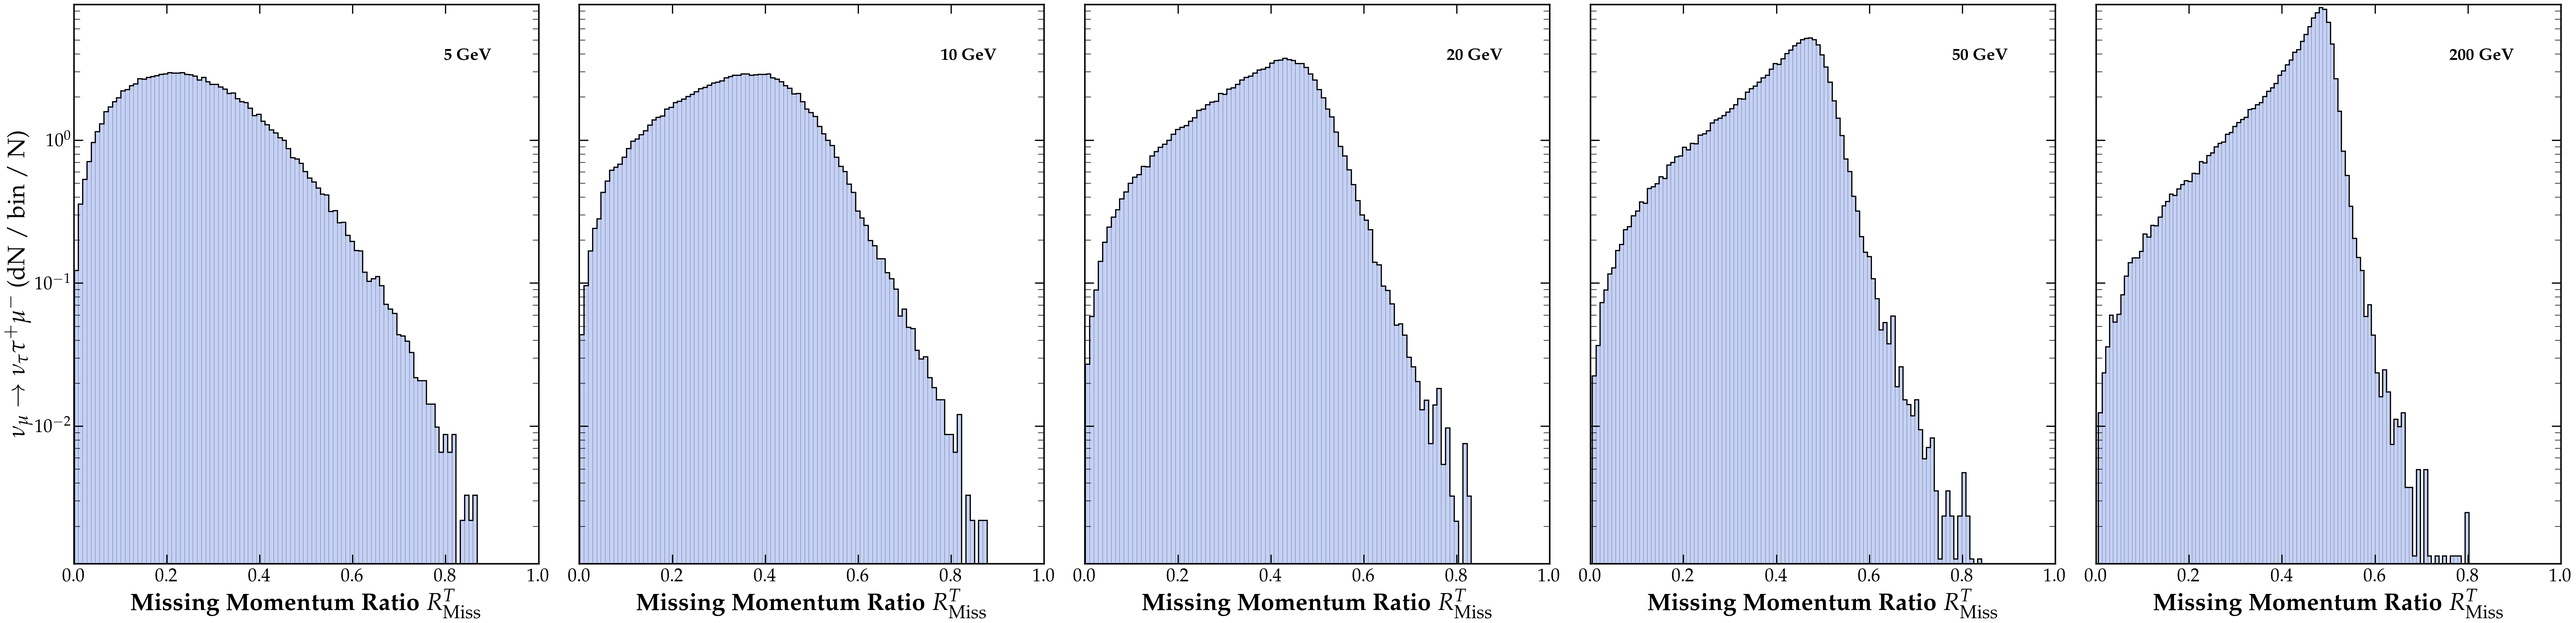
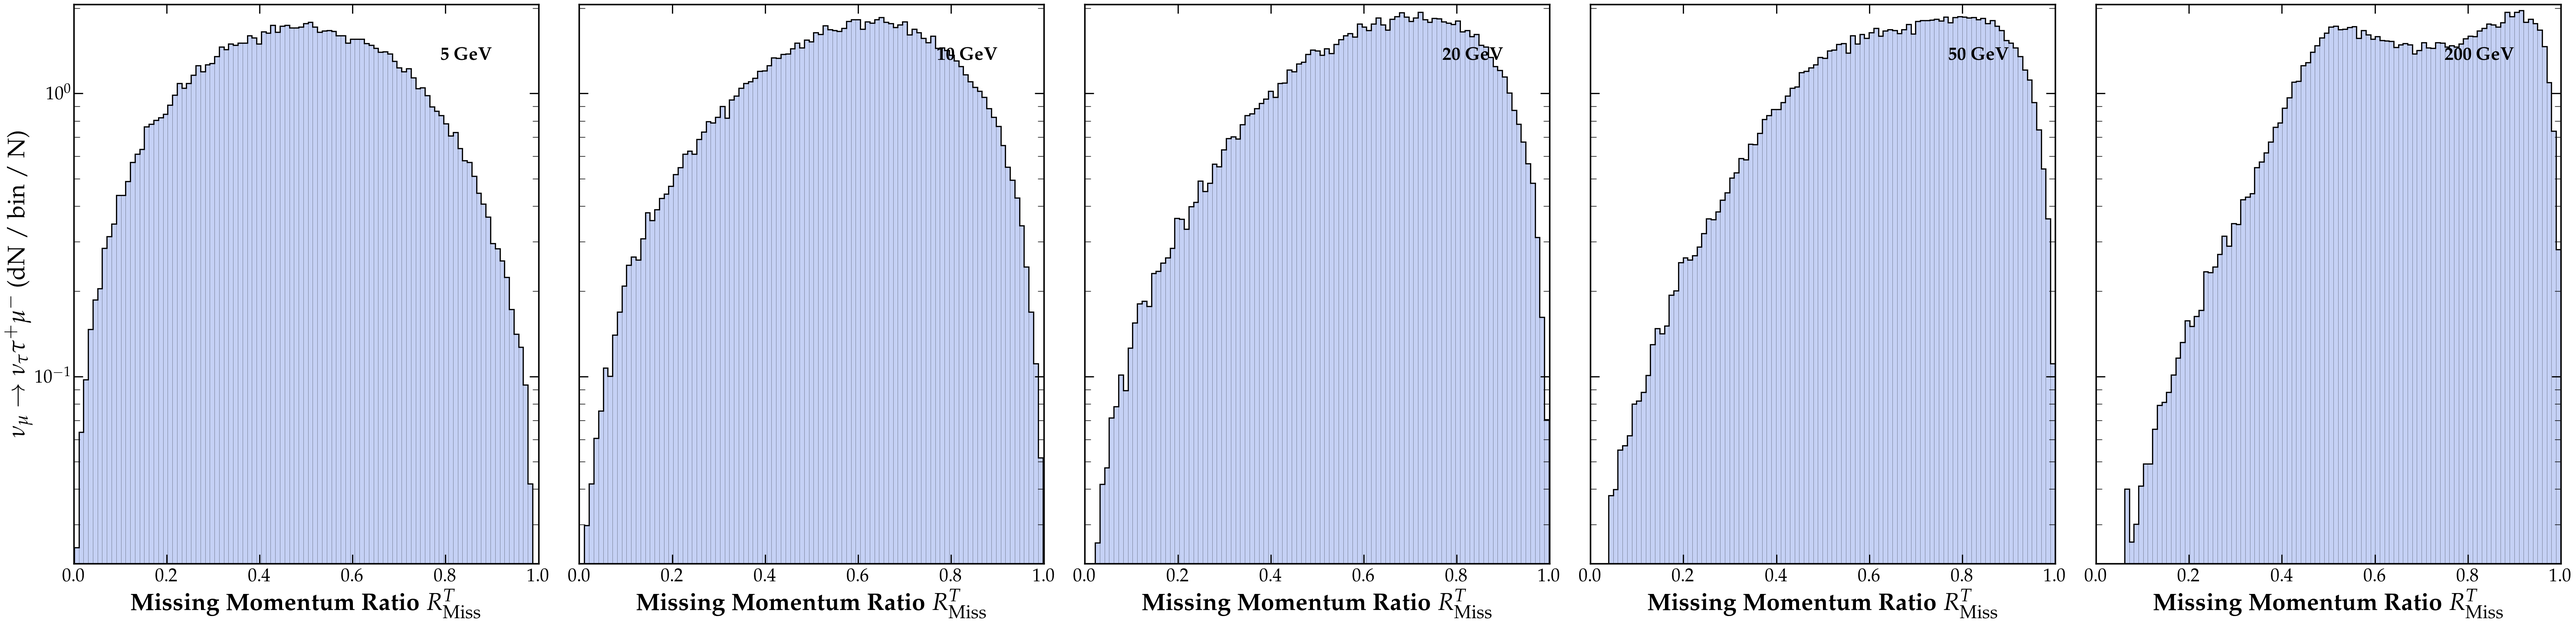
Modify RMiss distribution to only include ptMiss and ptMuon

diff --git a/analysis/plot_event_distributions_proton.py b/analysis/plot_event_distributions_proton.py
@@ -22,43 +22,48 @@ ptMiss_1tau_nucleon_p_5GeV = []
 ptMuon_1tau_nucleon_p_5GeV = []
 ptTau_1tau_nucleon_p_5GeV = []
 RMiss_1tau_nucleon_p_5GeV = []
+Fermi4Q2_1tau_nucleon_p_5GeV = []
 
 ### 1tau ; proton ; 10 GeV ###
 ptMiss_1tau_nucleon_p_10GeV = []
 ptMuon_1tau_nucleon_p_10GeV = []
 ptTau_1tau_nucleon_p_10GeV = []
 RMiss_1tau_nucleon_p_10GeV = []
+Fermi4Q2_1tau_nucleon_p_10GeV = []
 
 ### 1tau ; proton ; 20 GeV ###
 ptMiss_1tau_nucleon_p_20GeV = []
 ptMuon_1tau_nucleon_p_20GeV = []
 ptTau_1tau_nucleon_p_20GeV = []
 RMiss_1tau_nucleon_p_20GeV = []
+Fermi4Q2_1tau_nucleon_p_20GeV = []
 
 ### 1tau ; proton ; 50 GeV ###
 ptMiss_1tau_nucleon_p_50GeV = []
 ptMuon_1tau_nucleon_p_50GeV = []
 ptTau_1tau_nucleon_p_50GeV = []
 RMiss_1tau_nucleon_p_50GeV = []
+Fermi4Q2_1tau_nucleon_p_50GeV = []
 
 ### 1tau ; proton ; 200 GeV ###
 ptMiss_1tau_nucleon_p_200GeV = []
 ptMuon_1tau_nucleon_p_200GeV = []
 ptTau_1tau_nucleon_p_200GeV = []
 RMiss_1tau_nucleon_p_200GeV = []
-
+Fermi4Q2_1tau_nucleon_p_200GeV = []
 
 ############################
 #### Read Distributions ####
 ############################
 
-def read_after_skip(file_path, skip_lines=37):
+def read_after_skip(file_path, E_v, skip_lines=37):
     with open(file_path, 'r') as txtfile:
         for _ in range(skip_lines):
             next(txtfile)
         pt_miss_array = []
         pt_muon_array = []
         pt_tau_array = []
+        q2_array = []
         for line in txtfile:
             if line.startswith('16'):  # Read and store vtau transverse momentum
                 data = line.split()
@@ -72,8 +77,13 @@ def read_after_skip(file_path, skip_lines=37):
                 assert int(data[0]) == 13
                 px = float(data[2])
                 py = float(data[3])
+                pz = float(data[4])
+                E  = float(data[5])
+                M  = float(data[6])
                 pt_muon = np.sqrt(px**2 + py**2)
+                q2 = M**2 - E_v*(E - pz)  # Incoming v has E_v = pz_v and px_v = py_v = 0.
                 pt_muon_array.append(pt_muon)
+                q2_array.append(-q2)
             if line.startswith('-15'):  # Read and store tau transverse momentum
                 data = line.split()
                 assert int(data[0]) == -15
@@ -81,14 +91,14 @@ def read_after_skip(file_path, skip_lines=37):
                 py = float(data[3])
                 pt_tau = np.sqrt(px**2 + py**2)
                 pt_tau_array.append(pt_tau)
-        r_miss_array = [pt_miss / (pt_miss + pt_muon + pt_tau) for pt_miss, pt_muon, pt_tau in zip(pt_miss_array, pt_muon_array, pt_tau_array)]  # Calculate missing momentum ratio
-        return pt_miss_array, pt_muon_array, pt_tau_array, r_miss_array
+        r_miss_array = [pt_miss / (pt_miss + pt_muon) for pt_miss, pt_muon in zip(pt_miss_array, pt_muon_array)]  # Calculate missing momentum ratio
+        return pt_miss_array, pt_muon_array, pt_tau_array, r_miss_array, q2_array
 
-ptMiss_1tau_nucleon_p_5GeV, ptMuon_1tau_nucleon_p_5GeV, ptTau_1tau_nucleon_p_5GeV, RMiss_1tau_nucleon_p_5GeV = read_after_skip(EVENTS_DIR_1TAU+'/1tau_1e5Events_p_5GeV.txt')
-ptMiss_1tau_nucleon_p_10GeV, ptMuon_1tau_nucleon_p_10GeV, ptTau_1tau_nucleon_p_10GeV, RMiss_1tau_nucleon_p_10GeV = read_after_skip(EVENTS_DIR_1TAU+'/1tau_1e5Events_p_10GeV.txt')
-ptMiss_1tau_nucleon_p_20GeV, ptMuon_1tau_nucleon_p_20GeV, ptTau_1tau_nucleon_p_20GeV, RMiss_1tau_nucleon_p_20GeV = read_after_skip(EVENTS_DIR_1TAU+'/1tau_1e5Events_p_20GeV.txt')
-ptMiss_1tau_nucleon_p_50GeV, ptMuon_1tau_nucleon_p_50GeV, ptTau_1tau_nucleon_p_50GeV, RMiss_1tau_nucleon_p_50GeV = read_after_skip(EVENTS_DIR_1TAU+'/1tau_1e5Events_p_50GeV.txt')
-ptMiss_1tau_nucleon_p_200GeV, ptMuon_1tau_nucleon_p_200GeV, ptTau_1tau_nucleon_p_200GeV, RMiss_1tau_nucleon_p_200GeV = read_after_skip(EVENTS_DIR_1TAU+'/1tau_1e5Events_p_200GeV.txt')
+ptMiss_1tau_nucleon_p_5GeV, ptMuon_1tau_nucleon_p_5GeV, ptTau_1tau_nucleon_p_5GeV, RMiss_1tau_nucleon_p_5GeV, Fermi4Q2_1tau_nucleon_p_5GeV = read_after_skip(EVENTS_DIR_1TAU+'/1tau_1e5Events_p_5GeV.txt', 5)
+ptMiss_1tau_nucleon_p_10GeV, ptMuon_1tau_nucleon_p_10GeV, ptTau_1tau_nucleon_p_10GeV, RMiss_1tau_nucleon_p_10GeV, Fermi4Q2_1tau_nucleon_p_10GeV = read_after_skip(EVENTS_DIR_1TAU+'/1tau_1e5Events_p_10GeV.txt', 10)
+ptMiss_1tau_nucleon_p_20GeV, ptMuon_1tau_nucleon_p_20GeV, ptTau_1tau_nucleon_p_20GeV, RMiss_1tau_nucleon_p_20GeV, Fermi4Q2_1tau_nucleon_p_20GeV = read_after_skip(EVENTS_DIR_1TAU+'/1tau_1e5Events_p_20GeV.txt', 20)
+ptMiss_1tau_nucleon_p_50GeV, ptMuon_1tau_nucleon_p_50GeV, ptTau_1tau_nucleon_p_50GeV, RMiss_1tau_nucleon_p_50GeV, Fermi4Q2_1tau_nucleon_p_50GeV = read_after_skip(EVENTS_DIR_1TAU+'/1tau_1e5Events_p_50GeV.txt', 50)
+ptMiss_1tau_nucleon_p_200GeV, ptMuon_1tau_nucleon_p_200GeV, ptTau_1tau_nucleon_p_200GeV, RMiss_1tau_nucleon_p_200GeV, Fermi4Q2_1tau_nucleon_p_200GeV = read_after_skip(EVENTS_DIR_1TAU+'/1tau_1e5Events_p_200GeV.txt', 200)
 
 if write_dist:
     with open('ptDist_1tau_nucleon_p_5GeV.txt','w',newline='') as outfile:
@@ -149,6 +159,12 @@ RMiss_1tau_nucleon_p_5GeV_bins, RMiss_1tau_nucleon_p_5GeV_step = np.linspace(RMi
 print("RMiss:")
 print("\tmin: ", RMiss_1tau_nucleon_p_5GeV_min)
 print("\tmax: ", RMiss_1tau_nucleon_p_5GeV_max)
+Fermi4Q2_1tau_nucleon_p_5GeV_max = max(Fermi4Q2_1tau_nucleon_p_5GeV)
+Fermi4Q2_1tau_nucleon_p_5GeV_min = min(Fermi4Q2_1tau_nucleon_p_5GeV)
+Fermi4Q2_1tau_nucleon_p_5GeV_bins, Fermi4Q2_1tau_nucleon_p_5GeV_step = np.linspace(Fermi4Q2_1tau_nucleon_p_5GeV_min, Fermi4Q2_1tau_nucleon_p_5GeV_max, num=NBINS, retstep=True)
+print("Fermi4Q2:")
+print("\tmin: ", Fermi4Q2_1tau_nucleon_p_5GeV_min)
+print("\tmax: ", Fermi4Q2_1tau_nucleon_p_5GeV_max)
 
 print("---------- 10 GeV ----------")
 ptMiss_1tau_nucleon_p_10GeV_max = max(ptMiss_1tau_nucleon_p_10GeV)
@@ -175,6 +191,12 @@ RMiss_1tau_nucleon_p_10GeV_bins, RMiss_1tau_nucleon_p_10GeV_step = np.linspace(R
 print("RMiss:")
 print("\tmin: ", RMiss_1tau_nucleon_p_10GeV_min)
 print("\tmax: ", RMiss_1tau_nucleon_p_10GeV_max)
+Fermi4Q2_1tau_nucleon_p_10GeV_max = max(Fermi4Q2_1tau_nucleon_p_10GeV)
+Fermi4Q2_1tau_nucleon_p_10GeV_min = min(Fermi4Q2_1tau_nucleon_p_10GeV)
+Fermi4Q2_1tau_nucleon_p_10GeV_bins, Fermi4Q2_1tau_nucleon_p_10GeV_step = np.linspace(Fermi4Q2_1tau_nucleon_p_10GeV_min, Fermi4Q2_1tau_nucleon_p_10GeV_max, num=NBINS, retstep=True)
+print("Fermi4Q2:")
+print("\tmin: ", Fermi4Q2_1tau_nucleon_p_10GeV_min)
+print("\tmax: ", Fermi4Q2_1tau_nucleon_p_10GeV_max)
 
 print("---------- 20 GeV ----------")
 ptMiss_1tau_nucleon_p_20GeV_max = max(ptMiss_1tau_nucleon_p_20GeV)
@@ -201,6 +223,12 @@ RMiss_1tau_nucleon_p_20GeV_bins, RMiss_1tau_nucleon_p_20GeV_step = np.linspace(R
 print("RMiss:")
 print("\tmin: ", RMiss_1tau_nucleon_p_20GeV_min)
 print("\tmax: ", RMiss_1tau_nucleon_p_20GeV_max)
+Fermi4Q2_1tau_nucleon_p_20GeV_max = max(Fermi4Q2_1tau_nucleon_p_20GeV)
+Fermi4Q2_1tau_nucleon_p_20GeV_min = min(Fermi4Q2_1tau_nucleon_p_20GeV)
+Fermi4Q2_1tau_nucleon_p_20GeV_bins, Fermi4Q2_1tau_nucleon_p_20GeV_step = np.linspace(Fermi4Q2_1tau_nucleon_p_20GeV_min, Fermi4Q2_1tau_nucleon_p_20GeV_max, num=NBINS, retstep=True)
+print("Fermi4Q2:")
+print("\tmin: ", Fermi4Q2_1tau_nucleon_p_20GeV_min)
+print("\tmax: ", Fermi4Q2_1tau_nucleon_p_20GeV_max)
 
 print("---------- 50 GeV ----------")
 ptMiss_1tau_nucleon_p_50GeV_max = max(ptMiss_1tau_nucleon_p_50GeV)
@@ -227,6 +255,12 @@ RMiss_1tau_nucleon_p_50GeV_bins, RMiss_1tau_nucleon_p_50GeV_step = np.linspace(R
 print("RMiss:")
 print("\tmin: ", RMiss_1tau_nucleon_p_50GeV_min)
 print("\tmax: ", RMiss_1tau_nucleon_p_50GeV_max)
+Fermi4Q2_1tau_nucleon_p_50GeV_max = max(Fermi4Q2_1tau_nucleon_p_50GeV)
+Fermi4Q2_1tau_nucleon_p_50GeV_min = min(Fermi4Q2_1tau_nucleon_p_50GeV)
+Fermi4Q2_1tau_nucleon_p_50GeV_bins, Fermi4Q2_1tau_nucleon_p_50GeV_step = np.linspace(Fermi4Q2_1tau_nucleon_p_50GeV_min, Fermi4Q2_1tau_nucleon_p_50GeV_max, num=NBINS, retstep=True)
+print("Fermi4Q2:")
+print("\tmin: ", Fermi4Q2_1tau_nucleon_p_50GeV_min)
+print("\tmax: ", Fermi4Q2_1tau_nucleon_p_50GeV_max)
 
 print("---------- 200 GeV ----------")
 ptMiss_1tau_nucleon_p_200GeV_max = max(ptMiss_1tau_nucleon_p_200GeV)
@@ -253,6 +287,12 @@ RMiss_1tau_nucleon_p_200GeV_bins, RMiss_1tau_nucleon_p_200GeV_step = np.linspace
 print("RMiss:")
 print("\tmin: ", RMiss_1tau_nucleon_p_200GeV_min)
 print("\tmax: ", RMiss_1tau_nucleon_p_200GeV_max)
+Fermi4Q2_1tau_nucleon_p_200GeV_max = max(Fermi4Q2_1tau_nucleon_p_200GeV)
+Fermi4Q2_1tau_nucleon_p_200GeV_min = min(Fermi4Q2_1tau_nucleon_p_200GeV)
+Fermi4Q2_1tau_nucleon_p_200GeV_bins, Fermi4Q2_1tau_nucleon_p_200GeV_step = np.linspace(Fermi4Q2_1tau_nucleon_p_200GeV_min, Fermi4Q2_1tau_nucleon_p_200GeV_max, num=NBINS, retstep=True)
+print("Fermi4Q2:")
+print("\tmin: ", Fermi4Q2_1tau_nucleon_p_200GeV_min)
+print("\tmax: ", Fermi4Q2_1tau_nucleon_p_200GeV_max)
 
 ### Weights ###
 NEVENTS = 1e5
@@ -262,30 +302,35 @@ wts_ptMiss_1tau_nucleon_p_5GeV = np.ones_like(ptMiss_1tau_nucleon_p_5GeV) / (NEV
 wts_ptMuon_1tau_nucleon_p_5GeV = np.ones_like(ptMuon_1tau_nucleon_p_5GeV) / (NEVENTS * ptMuon_1tau_nucleon_p_5GeV_step)
 wts_ptTau_1tau_nucleon_p_5GeV = np.ones_like(ptTau_1tau_nucleon_p_5GeV) / (NEVENTS * ptTau_1tau_nucleon_p_5GeV_step)
 wts_RMiss_1tau_nucleon_p_5GeV = np.ones_like(RMiss_1tau_nucleon_p_5GeV) / (NEVENTS * RMiss_1tau_nucleon_p_5GeV_step)
+wts_Fermi4Q2_1tau_nucleon_p_5GeV = np.ones_like(Fermi4Q2_1tau_nucleon_p_5GeV) / (NEVENTS * Fermi4Q2_1tau_nucleon_p_5GeV_step)
 
 # 10 GeV #
 wts_ptMiss_1tau_nucleon_p_10GeV = np.ones_like(ptMiss_1tau_nucleon_p_10GeV) / (NEVENTS * ptMiss_1tau_nucleon_p_10GeV_step)
 wts_ptMuon_1tau_nucleon_p_10GeV = np.ones_like(ptMuon_1tau_nucleon_p_10GeV) / (NEVENTS * ptMuon_1tau_nucleon_p_10GeV_step)
 wts_ptTau_1tau_nucleon_p_10GeV = np.ones_like(ptTau_1tau_nucleon_p_10GeV) / (NEVENTS * ptTau_1tau_nucleon_p_10GeV_step)
 wts_RMiss_1tau_nucleon_p_10GeV = np.ones_like(RMiss_1tau_nucleon_p_10GeV) / (NEVENTS * RMiss_1tau_nucleon_p_10GeV_step)
+wts_Fermi4Q2_1tau_nucleon_p_10GeV = np.ones_like(Fermi4Q2_1tau_nucleon_p_10GeV) / (NEVENTS * Fermi4Q2_1tau_nucleon_p_10GeV_step)
 
 # 20 GeV #
 wts_ptMiss_1tau_nucleon_p_20GeV = np.ones_like(ptMiss_1tau_nucleon_p_20GeV) / (NEVENTS * ptMiss_1tau_nucleon_p_20GeV_step)
 wts_ptMuon_1tau_nucleon_p_20GeV = np.ones_like(ptMuon_1tau_nucleon_p_20GeV) / (NEVENTS * ptMuon_1tau_nucleon_p_20GeV_step)
 wts_ptTau_1tau_nucleon_p_20GeV = np.ones_like(ptTau_1tau_nucleon_p_20GeV) / (NEVENTS * ptTau_1tau_nucleon_p_20GeV_step)
 wts_RMiss_1tau_nucleon_p_20GeV = np.ones_like(RMiss_1tau_nucleon_p_20GeV) / (NEVENTS * RMiss_1tau_nucleon_p_20GeV_step)
+wts_Fermi4Q2_1tau_nucleon_p_20GeV = np.ones_like(Fermi4Q2_1tau_nucleon_p_20GeV) / (NEVENTS * Fermi4Q2_1tau_nucleon_p_20GeV_step)
 
 # 50 GeV #
 wts_ptMiss_1tau_nucleon_p_50GeV = np.ones_like(ptMiss_1tau_nucleon_p_50GeV) / (NEVENTS * ptMiss_1tau_nucleon_p_50GeV_step)
 wts_ptMuon_1tau_nucleon_p_50GeV = np.ones_like(ptMuon_1tau_nucleon_p_50GeV) / (NEVENTS * ptMuon_1tau_nucleon_p_50GeV_step)
 wts_ptTau_1tau_nucleon_p_50GeV = np.ones_like(ptTau_1tau_nucleon_p_50GeV) / (NEVENTS * ptTau_1tau_nucleon_p_50GeV_step)
 wts_RMiss_1tau_nucleon_p_50GeV = np.ones_like(RMiss_1tau_nucleon_p_50GeV) / (NEVENTS * RMiss_1tau_nucleon_p_50GeV_step)
+wts_Fermi4Q2_1tau_nucleon_p_50GeV = np.ones_like(Fermi4Q2_1tau_nucleon_p_50GeV) / (NEVENTS * Fermi4Q2_1tau_nucleon_p_50GeV_step)
 
 # 200 GeV #
 wts_ptMiss_1tau_nucleon_p_200GeV = np.ones_like(ptMiss_1tau_nucleon_p_200GeV) / (NEVENTS * ptMiss_1tau_nucleon_p_200GeV_step)
 wts_ptMuon_1tau_nucleon_p_200GeV = np.ones_like(ptMuon_1tau_nucleon_p_200GeV) / (NEVENTS * ptMuon_1tau_nucleon_p_200GeV_step)
 wts_ptTau_1tau_nucleon_p_200GeV = np.ones_like(ptTau_1tau_nucleon_p_200GeV) / (NEVENTS * ptTau_1tau_nucleon_p_200GeV_step)
 wts_RMiss_1tau_nucleon_p_200GeV = np.ones_like(RMiss_1tau_nucleon_p_200GeV) / (NEVENTS * RMiss_1tau_nucleon_p_200GeV_step)
+wts_Fermi4Q2_1tau_nucleon_p_200GeV = np.ones_like(Fermi4Q2_1tau_nucleon_p_200GeV) / (NEVENTS * Fermi4Q2_1tau_nucleon_p_200GeV_step)
 
 ##################
 #### Plotting ####
@@ -298,6 +343,7 @@ if vertical_flag:
     fig2, (ax21, ax22, ax23, ax24, ax25) = plt.subplots(1, 5, sharey=True, figsize=(60,15), tight_layout=True) # ptMuon
     fig3, (ax31, ax32, ax33, ax34, ax35) = plt.subplots(1, 5, sharey=True, figsize=(60,15), tight_layout=True) # ptTau
     fig4, (ax41, ax42, ax43, ax44, ax45) = plt.subplots(1, 5, sharey=True, figsize=(60,15), tight_layout=True) # RMiss
+    fig5, (ax51, ax52, ax53, ax54, ax55) = plt.subplots(1, 5, sharey=True, figsize=(60,15), tight_layout=True) # Fermi4Q2
 
     ### ptMiss ###
     ax11.hist(ptMiss_1tau_nucleon_p_5GeV, density=False, bins=ptMiss_1tau_nucleon_p_5GeV_bins, weights=wts_ptMiss_1tau_nucleon_p_5GeV, color='royalblue', alpha=0.3, edgecolor='black', lw=0.5)
@@ -346,13 +392,27 @@ if vertical_flag:
     ax44.hist(RMiss_1tau_nucleon_p_50GeV, density=False, bins=RMiss_1tau_nucleon_p_50GeV_bins, weights=wts_RMiss_1tau_nucleon_p_50GeV, histtype='step', color='black', alpha=1, lw=2)
     ax45.hist(RMiss_1tau_nucleon_p_200GeV, density=False, bins=RMiss_1tau_nucleon_p_200GeV_bins, weights=wts_RMiss_1tau_nucleon_p_200GeV, color='royalblue', alpha=0.3, edgecolor='black', lw=0.5)
     ax45.hist(RMiss_1tau_nucleon_p_200GeV, density=False, bins=RMiss_1tau_nucleon_p_200GeV_bins, weights=wts_RMiss_1tau_nucleon_p_200GeV, histtype='step', color='black', alpha=1, lw=2)
+    
+    ### Fermi4Q2 ###
+    ax51.hist(Fermi4Q2_1tau_nucleon_p_5GeV, density=False, bins=Fermi4Q2_1tau_nucleon_p_10GeV_bins, weights=wts_Fermi4Q2_1tau_nucleon_p_10GeV, color='royalblue', alpha=0.3, edgecolor='black', lw=0.5)
+    ax51.hist(Fermi4Q2_1tau_nucleon_p_5GeV, density=False, bins=Fermi4Q2_1tau_nucleon_p_10GeV_bins, weights=wts_Fermi4Q2_1tau_nucleon_p_10GeV, histtype='step', color='black', alpha=1, lw=2)
+    ax52.hist(Fermi4Q2_1tau_nucleon_p_10GeV, density=False, bins=Fermi4Q2_1tau_nucleon_p_10GeV_bins, weights=wts_Fermi4Q2_1tau_nucleon_p_10GeV, color='royalblue', alpha=0.3, edgecolor='black', lw=0.5)
+    ax52.hist(Fermi4Q2_1tau_nucleon_p_10GeV, density=False, bins=Fermi4Q2_1tau_nucleon_p_10GeV_bins, weights=wts_Fermi4Q2_1tau_nucleon_p_10GeV, histtype='step', color='black', alpha=1, lw=2)
+    ax53.hist(Fermi4Q2_1tau_nucleon_p_20GeV, density=False, bins=Fermi4Q2_1tau_nucleon_p_20GeV_bins, weights=wts_Fermi4Q2_1tau_nucleon_p_20GeV, color='royalblue', alpha=0.3, edgecolor='black', lw=0.5)
+    ax53.hist(Fermi4Q2_1tau_nucleon_p_20GeV, density=False, bins=Fermi4Q2_1tau_nucleon_p_20GeV_bins, weights=wts_Fermi4Q2_1tau_nucleon_p_20GeV, histtype='step', color='black', alpha=1, lw=2)
+    ax54.hist(Fermi4Q2_1tau_nucleon_p_50GeV, density=False, bins=Fermi4Q2_1tau_nucleon_p_50GeV_bins, weights=wts_Fermi4Q2_1tau_nucleon_p_50GeV, color='royalblue', alpha=0.3, edgecolor='black', lw=0.5)
+    ax54.hist(Fermi4Q2_1tau_nucleon_p_50GeV, density=False, bins=Fermi4Q2_1tau_nucleon_p_50GeV_bins, weights=wts_Fermi4Q2_1tau_nucleon_p_50GeV, histtype='step', color='black', alpha=1, lw=2)
+    ax55.hist(Fermi4Q2_1tau_nucleon_p_200GeV, density=False, bins=Fermi4Q2_1tau_nucleon_p_200GeV_bins, weights=wts_Fermi4Q2_1tau_nucleon_p_200GeV, color='royalblue', alpha=0.3, edgecolor='black', lw=0.5)
+    ax55.hist(Fermi4Q2_1tau_nucleon_p_200GeV, density=False, bins=Fermi4Q2_1tau_nucleon_p_200GeV_bins, weights=wts_Fermi4Q2_1tau_nucleon_p_200GeV, histtype='step', color='black', alpha=1, lw=2)
+
 
     ### Labels ###
     ax11.set_ylabel(r'$\nu_\mu \to \nu_\tau \tau^+ \mu^-$ (dN / bin / N)', fontsize=40)
     ax21.set_ylabel(r'$\nu_\mu \to \nu_\tau \tau^+ \mu^-$ (dN / bin / N)', fontsize=40)
     ax31.set_ylabel(r'$\nu_\mu \to \nu_\tau \tau^+ \mu^-$ (dN / bin / N)', fontsize=40)
     ax41.set_ylabel(r'$\nu_\mu \to \nu_\tau \tau^+ \mu^-$ (dN / bin / N)', fontsize=40)
-    
+    ax51.set_ylabel(r'$\nu_\mu \to \nu_\tau \tau^+ \mu^-$ (dN / bin / N)', fontsize=40)
+   
     for ax in [ax11, ax12, ax13, ax14, ax15]:
         ax.set_xlabel(r'\textbf{Missing Transverse Momentum} $p^T_{\mathrm{Miss}}$ (GeV) ', fontsize=40)
 
@@ -364,21 +424,24 @@ if vertical_flag:
     
     for ax in [ax41, ax42, ax43, ax44, ax45]:
         ax.set_xlabel(r'\textbf{Missing Momentum Ratio} $R^T_{\mathrm{Miss}}$', fontsize=40)
+    
+    for ax in [ax51, ax52, ax53, ax54, ax55]:
+        ax.set_xlabel(r'\textbf{4-Fermi Momentum Transfer} $Q^2_{\mathrm{4-Fermi}}$', fontsize=40)
 
-    for ax in [ax11, ax21, ax31, ax41]:
-        ax.text(0.90,0.90,r'\textbf{5 GeV}',ha='right',transform=ax.transAxes)
+    for ax in [ax11, ax21, ax31, ax41, ax51]:
+        ax.text(0.90,0.90,r'\textbf{5 GeV}',ha='right',transform=ax.transAxes, fontsize=30)
 
-    for ax in [ax12, ax22, ax32, ax42]:
-        ax.text(0.90,0.90,r'\textbf{10 GeV}',ha='right',transform=ax.transAxes)
+    for ax in [ax12, ax22, ax32, ax42, ax52]:
+        ax.text(0.90,0.90,r'\textbf{10 GeV}',ha='right',transform=ax.transAxes, fontsize=30)
 
-    for ax in [ax13, ax23, ax33, ax43]:
-        ax.text(0.90,0.90,r'\textbf{20 GeV}',ha='right',transform=ax.transAxes)
+    for ax in [ax13, ax23, ax33, ax43, ax53]:
+        ax.text(0.90,0.90,r'\textbf{20 GeV}',ha='right',transform=ax.transAxes, fontsize=30)
 
-    for ax in [ax14, ax24, ax34, ax44]:
-        ax.text(0.90,0.90,r'\textbf{50 GeV}',ha='right',transform=ax.transAxes)
+    for ax in [ax14, ax24, ax34, ax44, ax54]:
+        ax.text(0.90,0.90,r'\textbf{50 GeV}',ha='right',transform=ax.transAxes, fontsize=30)
 
-    for ax in [ax15, ax25, ax35, ax45]:
-        ax.text(0.90,0.90,r'\textbf{200 GeV}',ha='right',transform=ax.transAxes)
+    for ax in [ax15, ax25, ax35, ax45, ax55]:
+        ax.text(0.90,0.90,r'\textbf{200 GeV}',ha='right',transform=ax.transAxes, fontsize=30)
 
     ### Ticks ###
     locmaj = matplotlib.ticker.LogLocator(base=10.0, subs=(1.0, ), numticks=1000)
@@ -389,6 +452,8 @@ if vertical_flag:
     locmin3 = matplotlib.ticker.LogLocator(base=10.0, subs=np.arange(2, 10)*.1,numticks=2000)
     locmaj4 = matplotlib.ticker.LogLocator(base=10.0, subs=(1.0, ), numticks=1000)
     locmin4 = matplotlib.ticker.LogLocator(base=10.0, subs=np.arange(2, 10)*.1,numticks=2000)
+    locmaj5 = matplotlib.ticker.LogLocator(base=10.0, subs=(1.0, ), numticks=1000)
+    locmin5 = matplotlib.ticker.LogLocator(base=10.0, subs=np.arange(2, 10)*.1,numticks=2000)
 
     ax11.yaxis.set_major_locator(locmaj)
     ax11.yaxis.set_minor_locator(locmin)
@@ -398,6 +463,8 @@ if vertical_flag:
     ax31.yaxis.set_minor_locator(locmin3)
     ax41.yaxis.set_major_locator(locmaj4)
     ax41.yaxis.set_minor_locator(locmin4)
+    ax51.yaxis.set_major_locator(locmaj5)
+    ax51.yaxis.set_minor_locator(locmin5)
 
     ### Limits ###
     # ptMiss #
@@ -428,6 +495,13 @@ if vertical_flag:
 #    ax44.set_xlim(RMiss_1tau_nucleon_p_50GeV_min, RMiss_1tau_nucleon_p_50GeV_max)
 #    ax45.set_xlim(RMiss_1tau_nucleon_p_200GeV_min, RMiss_1tau_nucleon_p_200GeV_max)
     
+    # ptTau #
+    ax51.set_xlim(Fermi4Q2_1tau_nucleon_p_5GeV_min, Fermi4Q2_1tau_nucleon_p_5GeV_max)
+    ax52.set_xlim(Fermi4Q2_1tau_nucleon_p_10GeV_min, Fermi4Q2_1tau_nucleon_p_10GeV_max)
+    ax53.set_xlim(Fermi4Q2_1tau_nucleon_p_20GeV_min, Fermi4Q2_1tau_nucleon_p_20GeV_max)
+    ax54.set_xlim(Fermi4Q2_1tau_nucleon_p_50GeV_min, Fermi4Q2_1tau_nucleon_p_50GeV_max)
+    ax55.set_xlim(Fermi4Q2_1tau_nucleon_p_200GeV_min, Fermi4Q2_1tau_nucleon_p_200GeV_max)
+
     ax41.set_xlim(0, 1)
     ax42.set_xlim(0, 1)
     ax43.set_xlim(0, 1)
@@ -438,6 +512,7 @@ if vertical_flag:
     ax21.set_yscale('log')
     ax31.set_yscale('log')
     ax41.set_yscale('log')
+    ax51.set_yscale('log')
 
 # horizontal #
 if horizontal_flag:
@@ -520,3 +595,4 @@ fig1.savefig("../plots/ptMiss_1tau_incoh_p.png", dpi=100, bbox_inches='tight')
 fig2.savefig("../plots/ptMuon_1tau_incoh_p.png", dpi=100, bbox_inches='tight')
 fig3.savefig("../plots/ptTau_1tau_incoh_p.png", dpi=100, bbox_inches='tight')
 fig4.savefig("../plots/RMiss_1tau_incoh_p.png", dpi=100, bbox_inches='tight')
+fig5.savefig("../plots/Fermi4Q2_1tau_incoh_p.png", dpi=100, bbox_inches='tight')
